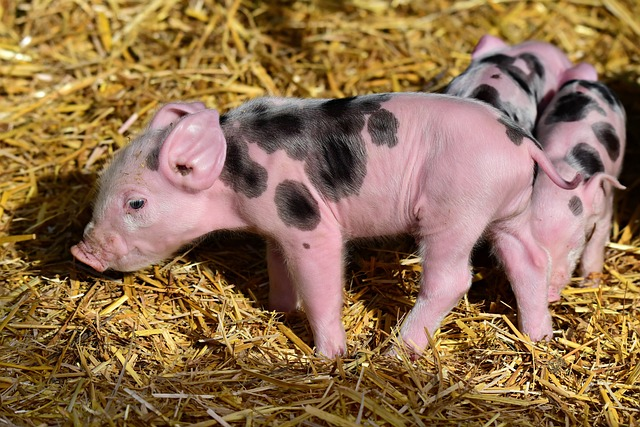
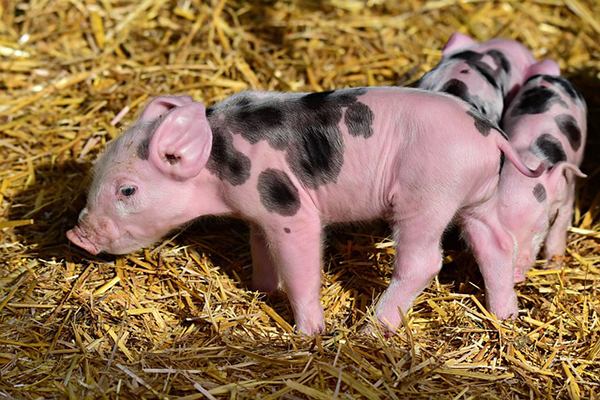
Re-sized and Added Photos, Added Pagination

diff --git a/pig-page_joshuarohde/index.html b/pig-page_joshuarohde/index.html
@@ -31,7 +31,7 @@
         </div>
         <div class="col-md-4 themed-grid-col">
 
-            <img src="media/pig-752557_1280.jpg" class="img-fluid" alt="Responsive image">
+            <img src="media/pig-grass.jpg" class="img-fluid" alt="Responsive image">
 
 
         </div>
@@ -55,7 +55,7 @@
     <div class="row">
       <div class="col-lg-4 col-md-6 mb-4">
         <div class="card">
-          <img class="card-img-top" src="https://via.placeholder.com/286x180" alt="Card image cap">
+          <img class="card-img-top" src="media/cute-piggy.jpg" alt="Card image cap">
           <div class="card-body">
             <h5 class="card-title">OINK</h5>
             <p class="card-text">Oinks are a versatile vocalization that pigs use for various purposes, including communication within the group, expressing contentment, or signaling excitement.</p>
@@ -67,7 +67,7 @@
       </div>
       <div class="col-lg-4 col-md-6 mb-4">
         <div class="card">
-          <img class="card-img-top" src="https://via.placeholder.com/286x180" alt="Card image cap">
+          <img class="card-img-top" src="media/sad-piggy.jpg" alt="Card image cap">
           <div class="card-body">
             <h5 class="card-title">SQUEAL</h5>
             <p class="card-text">Squealing is a high-pitched vocalization often associated with distress, fear, or pain. Pigs may squeal when they are uncomfortable, frightened, or experiencing physical discomfort.</p>
@@ -79,7 +79,7 @@
       </div>
       <div class="col-lg-4 col-md-6 mb-4">
         <div class="card">
-          <img class="card-img-top" src="https://via.placeholder.com/286x180" alt="Card image cap">
+          <img class="card-img-top" src="media/pig-in-mud.jpg" alt="Card image cap">
           <div class="card-body">
             <h5 class="card-title">GRUNT</h5>
             <p class="card-text">Grunting is a low, guttural sound that pigs produce. Pigs may grunt when they are comfortable, satisfied, or simply communicating with other pigs in their group.</p>
@@ -103,7 +103,7 @@
       </div>
       <div class="col-md-4 themed-grid-col">
 
-          <img src="media/pig-752557_1280.jpg" class="img-fluid" alt="Responsive image">
+          <img src="media/small-pig-group.jpg" class="img-fluid" alt="Responsive image">
 
 
       </div>
@@ -115,7 +115,7 @@
 
 <h1 class="display-5 fw-bold text-body-emphasis">Fun Facts!</h1>
 <br>
-<div class="accordion" id="accordionList">
+<div class="accordion mx-5 px-5" id="accordionList">
   <div class="accordion-item">
     <h2 class="accordion-header">
       <button class="accordion-button" type="button" data-bs-toggle="collapse" data-bs-target="#collapseOneList" aria-expanded="true" aria-controls="collapseOneList">
@@ -184,10 +184,10 @@
       <img src="media/small-pig.jpg" class="d-block w-100" alt="Slide 1">
     </div>
     <div class="carousel-item active">
-      <img src="media/small-pig.jpg" class="d-block w-100" alt="Slide 2">
+      <img src="media/pig-in-water.jpg" class="d-block w-100" alt="Slide 2">
     </div>
     <div class="carousel-item">
-      <img src="media/small-pig.jpg" class="d-block w-100" alt="Slide 3">
+      <img src="media/two-pigs.jpg" class="d-block w-100" alt="Slide 3">
     </div>
   </div>
   <button class="carousel-control-prev" type="button" data-bs-target="#myCarousel" data-bs-slide="prev">
@@ -204,7 +204,7 @@
 <!-- SOURCES!!!! -->
 <div class="mt-5 pt-5"></div>
 
-<div class="text-center mb-5 pb-5">
+<div class="text-center mb-2 pb-2">
   <div class="dropdown dropup">
       <button class="btn btn-primary dropdown-toggle" type="button" id="dropdownMenuButton" data-bs-toggle="dropdown" aria-haspopup="true" aria-expanded="false">
           Sources
@@ -220,6 +220,28 @@
       </div>
   </div>
 </div>
+
+<div class="d-flex justify-content-center">
+<div class="bd-example-snippet bd-code-snippet">
+  <div class="bd-example m-0 border-0">
+    
+        <nav aria-label="Another pagination example">
+          <ul class="pagination pagination-md flex-wrap">
+            <li class="page-item disabled">
+              <a class="page-link"><</a>
+            </li>
+            <li class="page-item active" aria-current="page">
+              <a class="page-link" href="#">1</a>
+            </li>
+            <li class="page-item disabled">
+              <a class="page-link" href="#">></a>
+            </li>
+          </ul>
+        </nav>
+        </div>
+  </div>
+</div>
+
 <p>Copyright © 2024 ROHDE CREATIONS. All rights reserved.</p>
 </div>
 <script>
